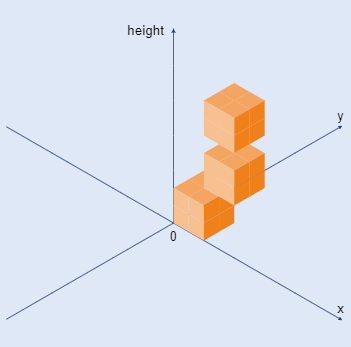
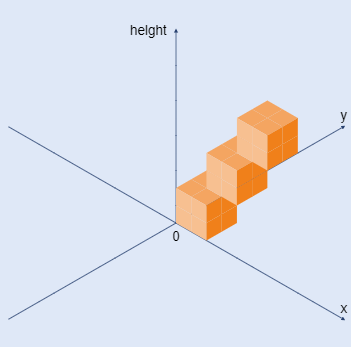
fix basic test 2

diff --git a/info/task_description.html b/info/task_description.html
@@ -19,7 +19,7 @@
 <div class="for_info_only">
     <p><strong>Examples :</strong></p>
     <pre class="brush: python">stacking_cubes([(0, 0, 2), (1, 1, 2), (3, 2, 2)]) == 4
-stacking_cubes([(0, 0, 2), (1, 1, 2), (0, 2, 2), (2, 2, 1)]) == 6
+stacking_cubes([(0, 0, 2), (1, 1, 2), (1, 2, 1), (2, 2, 2)]) == 6
 stacking_cubes([(0, 0, 2), (0, 2, 2), (0, 2, 2), (2, 0, 2), (2, 0, 2), (2, 0, 2), (2, 0, 2)]) == 8</pre>
 </div>
 

diff --git a/translations/ja/info/task_description.html b/translations/ja/info/task_description.html
@@ -18,7 +18,7 @@
 <div class="for_info_only">
     <p><strong>Examples :</strong></p>
     <pre class="brush: python">stacking_cubes([(0, 0, 2), (1, 1, 2), (3, 2, 2)]) == 4
-stacking_cubes([(0, 0, 2), (1, 1, 2), (0, 2, 2), (2, 2, 1)]) == 6
+stacking_cubes([(0, 0, 2), (1, 1, 2), (1, 2, 1), (2, 2, 2)]) == 6
 stacking_cubes([(0, 0, 2), (0, 2, 2), (0, 2, 2), (2, 0, 2), (2, 0, 2), (2, 0, 2), (2, 0, 2)]) == 8</pre>
 </div>
 
